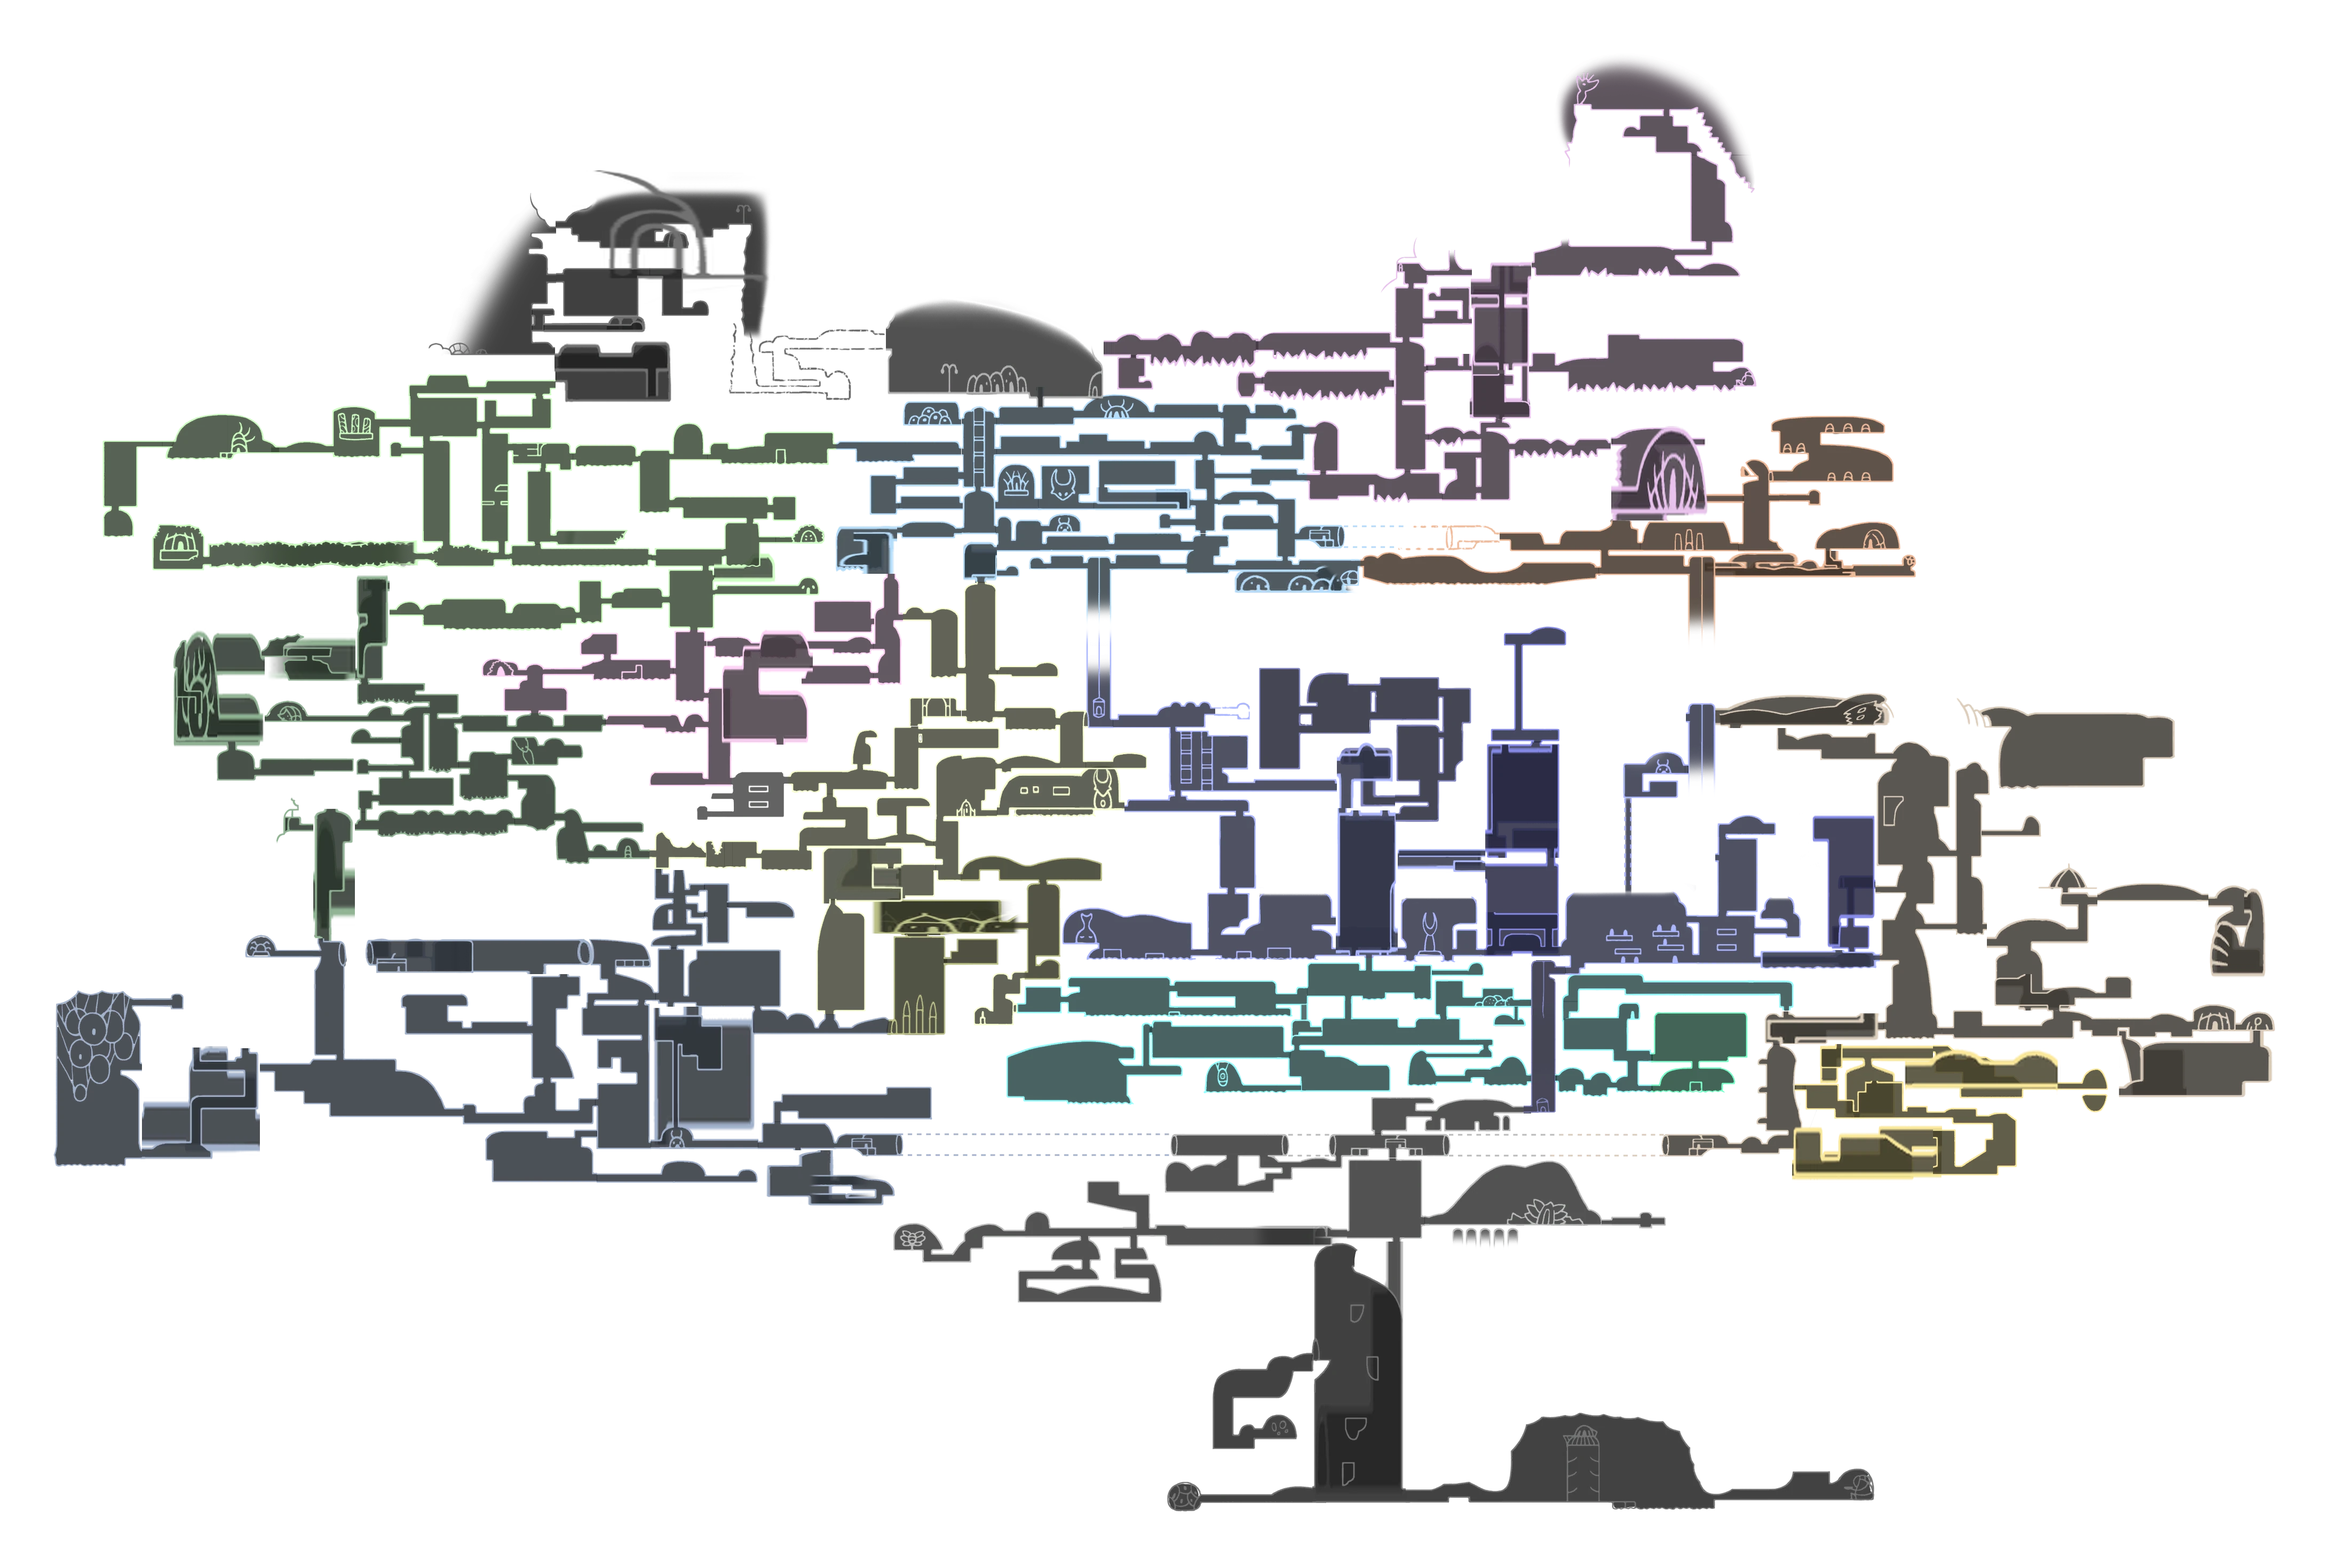
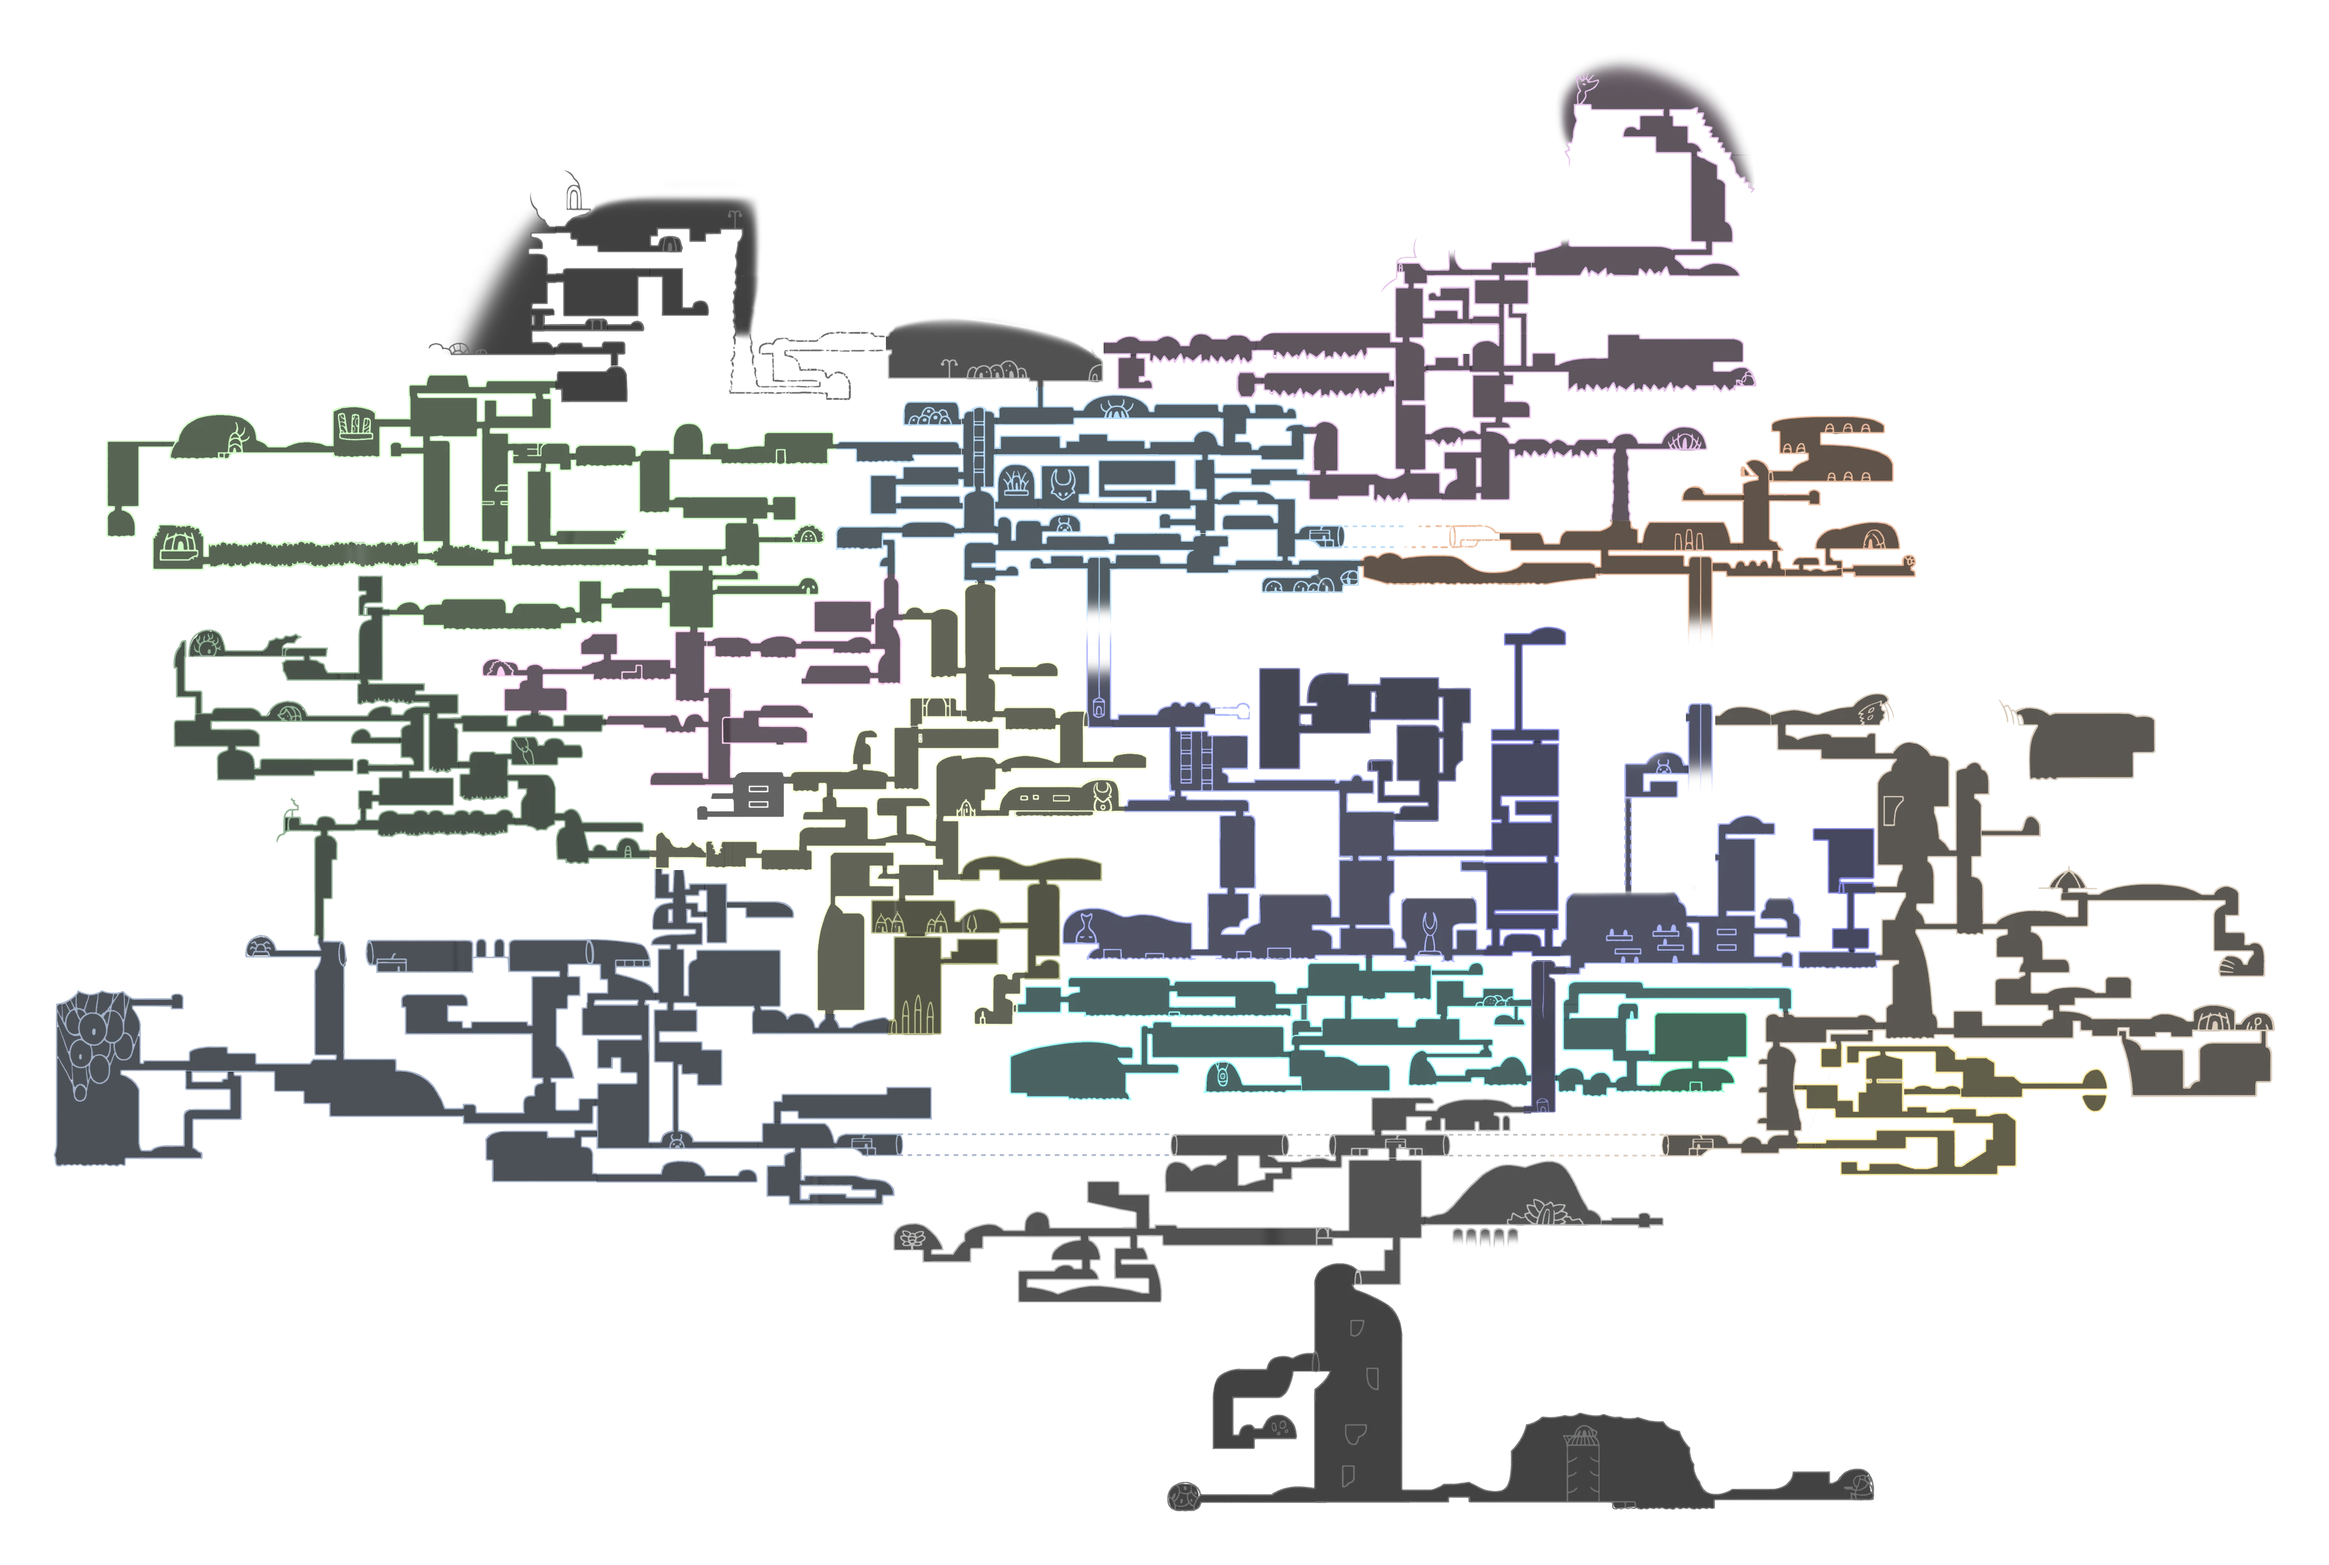
Fix blurry/stretched rooms: place trimmed atlas sprites at their offset before scaling

diff --git a/tools/hk_render_map.py b/tools/hk_render_map.py
@@ -12,6 +12,18 @@ gen = TypeTreeGenerator(env.objects[0].assets_file.unity_version)
 gen.load_local_game(GAME)
 env.typetree_generator = gen
 
+
+def full_image(sp):
+    """Sprite pixels at full rect size: atlas sprites come back trimmed, so put them back at their offset."""
+    im = sp.image.convert("RGBA")
+    rw, rh = round(sp.m_Rect.width), round(sp.m_Rect.height)
+    if im.size == (rw, rh):
+        return im
+    off = sp.m_RD.textureRectOffset
+    out = Image.new("RGBA", (rw, rh), (0, 0, 0, 0))
+    out.paste(im, (round(off.x), rh - round(off.y) - im.height))
+    return out
+
 def sheet(lang, name):
     o = next(o for o in env.objects if o.type.name == "TextAsset" and o.peek_name() == f"{lang}_{name}")
     s = o.read().m_Script
@@ -99,7 +111,7 @@ Y = lambda y: round((maxy - y) * SCALE, 1)
 canvas = Image.new("RGBA", (W, H), (0, 0, 0, 0))
 rooms, area_pts = {}, {}
 for (scene, x, y, sp, area, col), (x0, y0, x1, y1, w, h) in zip(placed, boxes):
-    img = sp.image.convert("RGBA").resize((max(1, round((x1 - x0) * SCALE)), max(1, round((y1 - y0) * SCALE))), Image.LANCZOS)
+    img = full_image(sp).resize((max(1, round((x1 - x0) * SCALE)), max(1, round((y1 - y0) * SCALE))), Image.LANCZOS)
     r, g, b, a = img.split()
     img = Image.merge("RGBA", (r.point(lambda v: v * col[0]), g.point(lambda v: v * col[1]), b.point(lambda v: v * col[2]), a))
     canvas.alpha_composite(img, (round((x0 - minx) * SCALE), round((maxy - y1) * SCALE)))

diff --git a/tools/ss_render_map.py b/tools/ss_render_map.py
@@ -12,6 +12,18 @@ files = [AA + r"\maps_assets_all.bundle"] + glob.glob(AA + r"\atlases_assets_ass
 env = UnityPy.load(*files)
 res = UnityPy.load(DATA + r"\resources.assets")
 
+
+def full_image(sp):
+    """Sprite pixels at full rect size: atlas sprites come back trimmed, so put them back at their offset."""
+    im = sp.image.convert("RGBA")
+    rw, rh = round(sp.m_Rect.width), round(sp.m_Rect.height)
+    if im.size == (rw, rh):
+        return im
+    off = sp.m_RD.textureRectOffset
+    out = Image.new("RGBA", (rw, rh), (0, 0, 0, 0))
+    out.paste(im, (round(off.x), rh - round(off.y) - im.height))
+    return out
+
 def sheet(lang, name):
     o = next(o for o in res.objects if o.type.name == "TextAsset" and o.peek_name() == f"{lang}_{name}")
     s = o.read().m_Script
@@ -90,7 +102,7 @@ Y = lambda v: round((maxy - v) * SCALE, 1)
 canvas = Image.new("RGBA", (W, H), (0, 0, 0, 0))
 rooms = {}
 for (scene, x, y, sp, area, sx, sy, col), (x0, y0, x1, y1, w, h) in zip(placed, boxes):
-    img = sp.image.convert("RGBA")
+    img = full_image(sp)
     if sx < 0: img = img.transpose(Image.FLIP_LEFT_RIGHT)
     if sy < 0: img = img.transpose(Image.FLIP_TOP_BOTTOM)
     img = img.resize((max(1, round((x1 - x0) * SCALE)), max(1, round((y1 - y0) * SCALE))), Image.LANCZOS)
